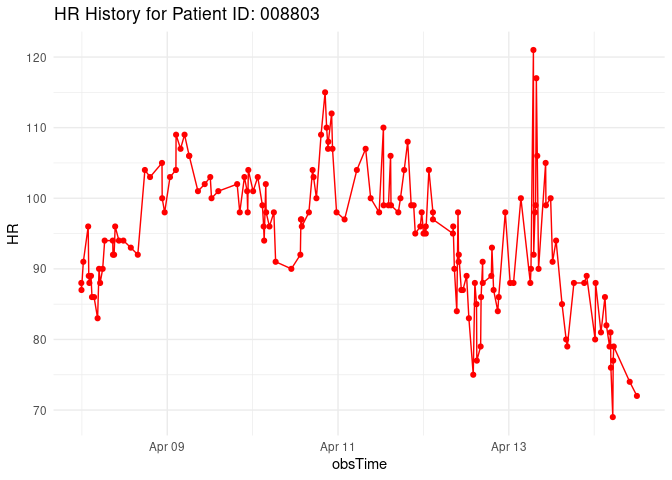
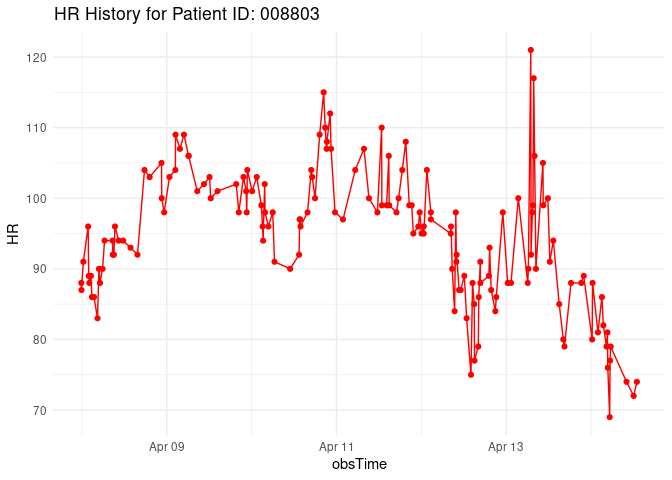
Updated report

Changed region(s): [[0.1562, 0.0938, 0.9688, 0.875], [0.7188, 0.9062, 0.7812, 0.9375], [0.4688, 0.9062, 0.5312, 0.9375]]

diff --git a/sepsis_v2.md b/sepsis_v2.md
@@ -10,7 +10,7 @@ Sepsis Assignment
 
 #### The date and time of the report
 
-    Hello! The last time the report was run: 2023-04-14 12:25:46
+    Hello! The last time the report was run: 2023-04-14 13:16:50
 
 #### Recent heart rate, temperature, and respiratory rate for patients who currently have sepsis
 
@@ -32,7 +32,7 @@ table1
 |:-----------|-----------:|------:|------------:|:--------------------|
 | 000714     |         84 |    NA |          19 | 2023-04-08 17:48:46 |
 | 001948     |         84 |    NA |          25 | 2023-04-08 22:43:12 |
-| 008803     |         72 |    NA |          17 | 2023-04-14 12:00:50 |
+| 008803     |         74 |    NA |          19 | 2023-04-14 12:55:54 |
 | 009433     |         94 | 38.44 |          34 | 2023-04-10 09:36:59 |
 
 #### Plots for all patients who have sepsis that show the complete history of their heart rate, temperature, and respiratory rate during their time in the ICU.
@@ -215,7 +215,7 @@ mutate(prev_HR = lag(HR, order_by = obsTime),
 | 008574    |        NA |          NA |          NA |
 | 008614    |        -1 |          NA |           3 |
 | 008614    |        NA |          NA |          NA |
-| 008803    |        -2 |          NA |          -1 |
+| 008803    |         2 |          NA |           2 |
 | 008803    |        NA |          NA |          NA |
 | 008882    |        -2 |          NA |           1 |
 | 008882    |        NA |          NA |          NA |
